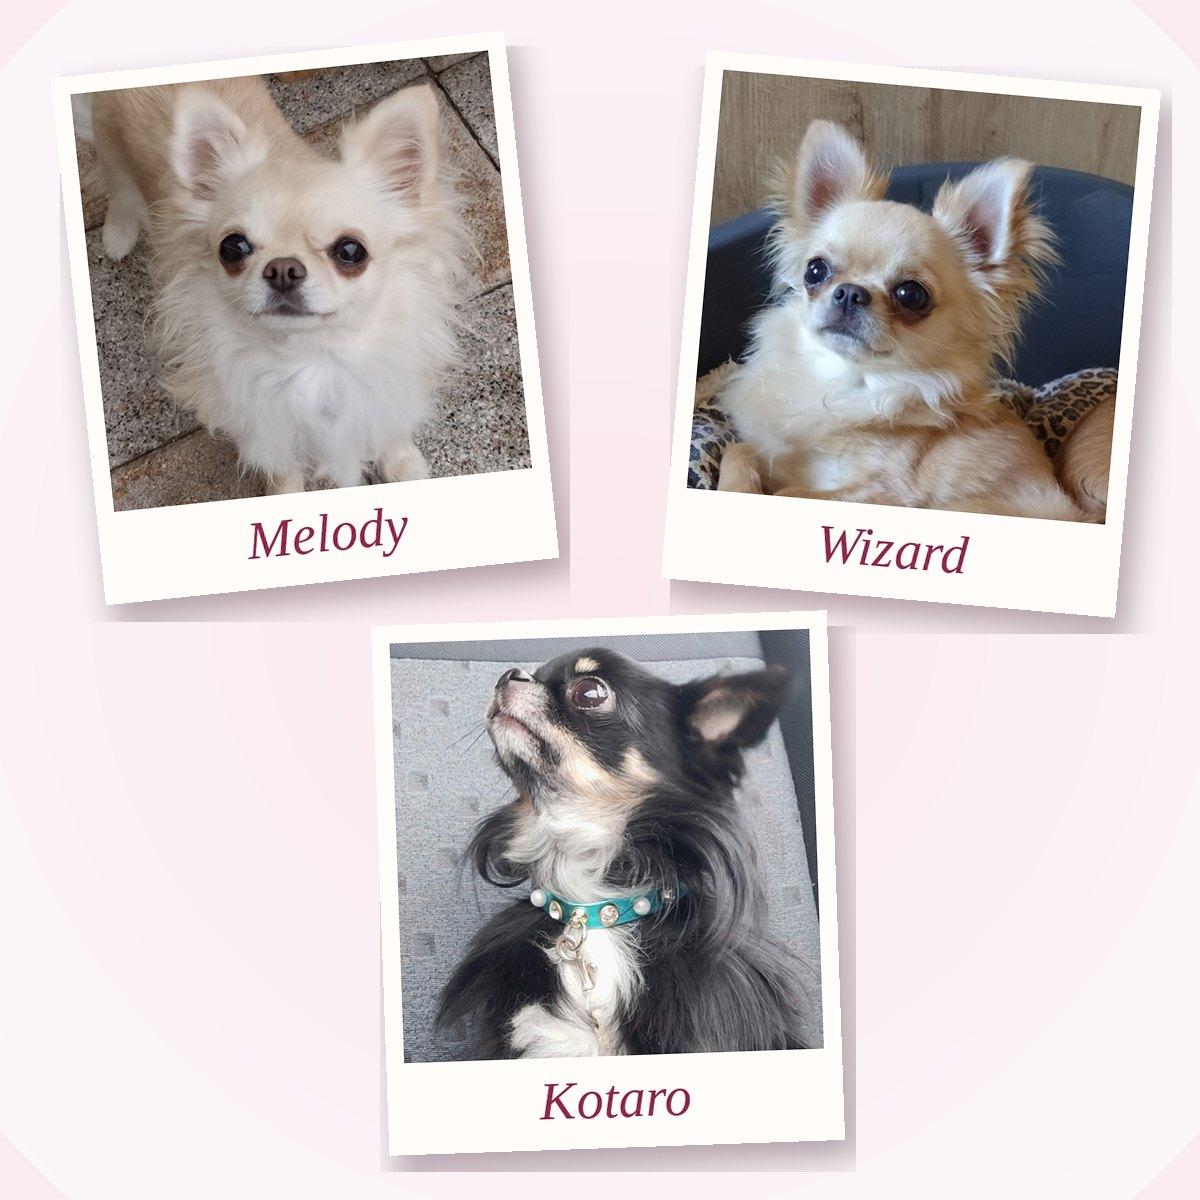
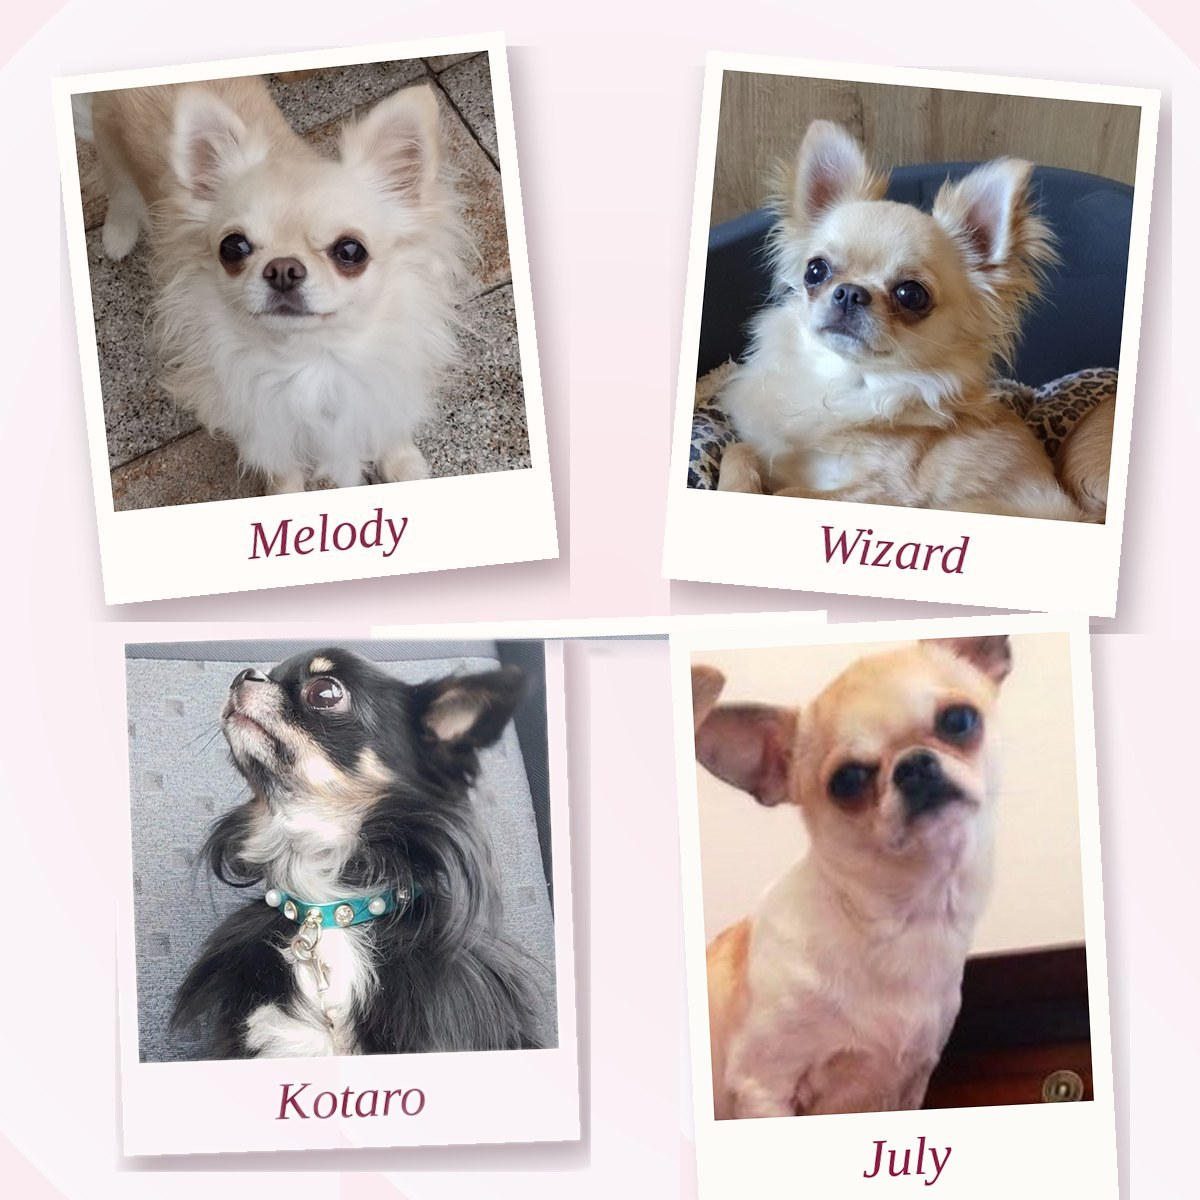
Collage storia con July; didascalia Home 'A destra July'
Claude-Session: https://claude.ai/code/session_0142NhdYpzy8Fpqgk5pyevBt

Changed region(s): [[0.0925, 0.4933, 0.9558, 1.0]]

diff --git a/storia.html b/storia.html
@@ -38,7 +38,7 @@
       <p>Il nome viene dalla rosa, il fiore che per noi rappresenta meglio questa razza: delicata e piena di grazia, ma con un carattere deciso. Il "tocco" è la cura che mettiamo in ogni cucciolata, dalla scelta dei genitori fino al giorno in cui il cucciolo va nella sua nuova casa.</p>
       <p>Negli anni abbiamo scelto con cura ogni riproduttore, guardando al carattere e alla salute prima ancora che all'aspetto. Oggi la maggior parte delle nostre fattrici è nata qui, figlia e nipote dei cani con cui abbiamo cominciato.</p>
     </div>
-    <div class="petalo"><img src="foto/storia-capostipiti.jpg" alt="Melody, Kotaro e Wizard, i nostri primi Chihuahua" loading="lazy"></div>
+    <div class="petalo"><img src="foto/storia-capostipiti.jpg" alt="July, Melody, Kotaro e Wizard, i nostri primi Chihuahua" loading="lazy"></div>
   </div>
 </section>
 

diff --git a/assets/site.js b/assets/site.js
@@ -51,7 +51,7 @@
       : '<div class="foto-vuota"><div>' + ICONA_ROSA + "Foto panoramica dei nostri cani in arrivo</div></div>";
   });
   document.querySelectorAll("[data-copertina]").forEach(function (el) {
-    if (S.copertina) el.innerHTML = '<div class="petalo"><img src="foto/' + esc(S.copertina) + '" alt="July, la nostra prima Chihuahua"></div><p class="didascalia">July, la nostra prima Chihuahua, che ci ha insegnato tutto.</p>';
+    if (S.copertina) el.innerHTML = '<div class="petalo"><img src="foto/' + esc(S.copertina) + '" alt="July, la nostra prima Chihuahua"></div><p class="didascalia">A destra July, la nostra prima Chihuahua, che ci ha insegnato tutto.</p>';
   });
   document.querySelectorAll("[data-anno]").forEach(function (el) { el.textContent = new Date().getFullYear(); });
 
